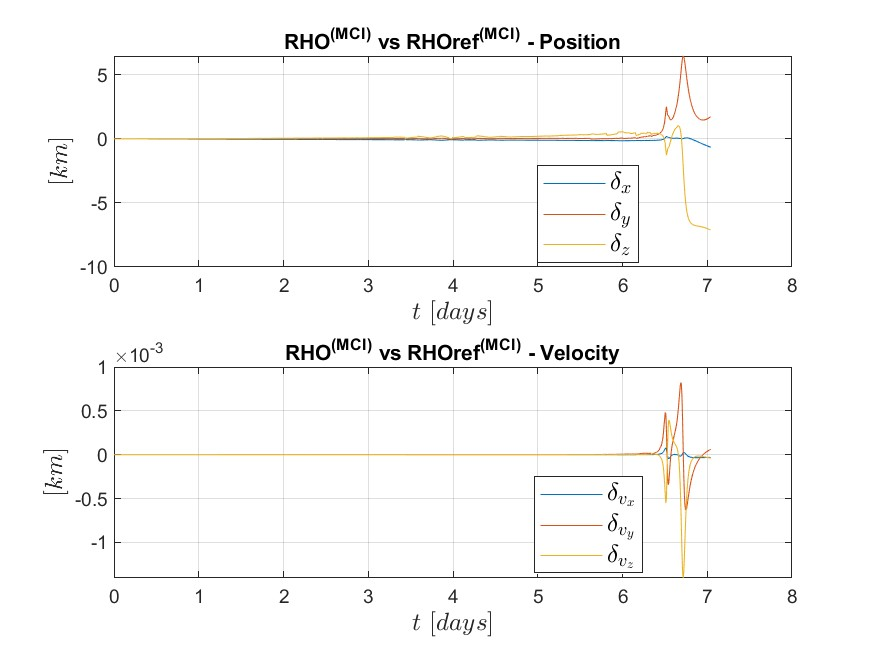
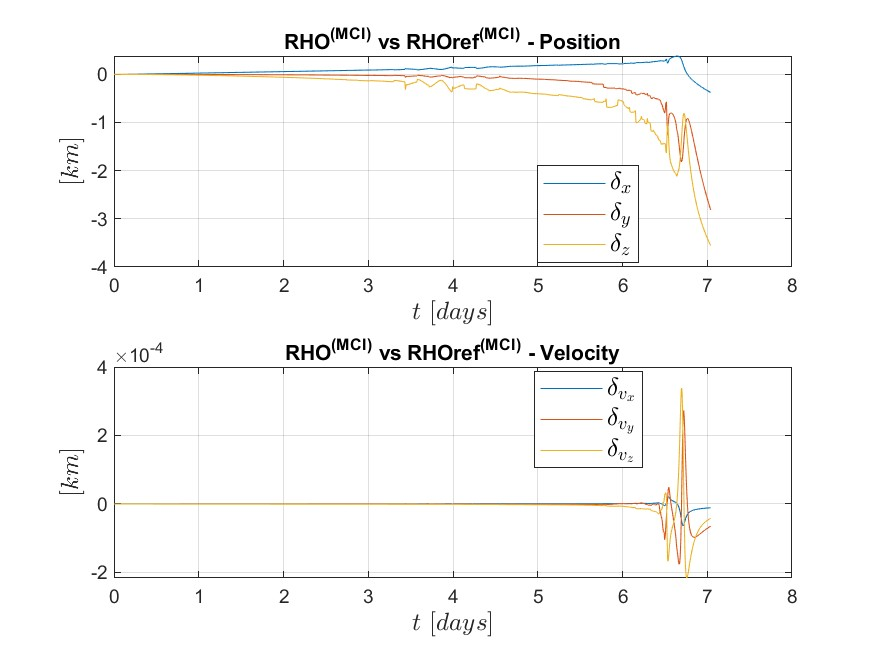
inserted omega into DynamicalModel

diff --git a/Library/DynamicalModelRM.m b/Library/DynamicalModelRM.m
@@ -73,7 +73,7 @@ rc_MCI = Xc_MCI(1:3);
 % Target's Third, Fourth Body and Moon Harmonics Perturbing Accelerations
 a34Bt = ThirdFourthBody(MEEt, t, EarthPPsMCI, SunPPsMCI, muE, muS);
 aG_Mt = MoonHarmPerts(MEEt, MoonPPsECI, t, muM, deltaE, psiM, deltaM);
-apt_LVLH = a34Bt + aG_Mt;
+apt_LVLHt = a34Bt + aG_Mt;
 
 % Chaser's Third, Fourth Body and Moon Harmonics Perturbing Accelerations
 a34Bc = ThirdFourthBody(MEEc, t, EarthPPsMCI, SunPPsMCI, muE, muS);
@@ -86,8 +86,18 @@ apc_LVLHc = a34Bc + aG_Mc;
 
 apc_MCI = R_LVLHc2MCI*apc_LVLHc;
 
-% Compute Angular Velocity of LVLH wrt MCI and its derivative
-omega_LVLH = ppsval(omegaPPsLVLH, t);
+% Compute Angular Velocity of LVLH wrt MCI
+[~, ~, incl, ~, omega, nu] = S2C(COEt');
+[~, ~, incl_dot, Omega_dot, omega_dot, nu_dot] = S2C(get_COEdots(COEt', Xt_MCI', apt_LVLHt));
+
+theta_t = omega + nu;
+theta_t_dot = omega_dot + nu_dot;
+
+omega_LVLH = [Omega_dot*sin(incl)*sin(theta_t) + incl_dot*cos(theta_t); ...
+              Omega_dot*sin(incl)*cos(theta_t) - incl_dot*sin(theta_t); ...
+              Omega_dot*cos(incl) + theta_t_dot];
+
+% Compute Angular Acceleration of LVLH wrt MCI
 omegadot_LVLH = ppsval(omegadotPPsLVLH, t);
 
 % Rotate the Necessary Vectors
@@ -105,10 +115,10 @@ q = (dot(rho_LVLH, rho_LVLH) + 2*dot(rho_LVLH, rt_LVLH))/rt^2;
 
 
 % Assign State Derivatives
-dY(1:6) = G*apt_LVLH;
+dY(1:6) = G*apt_LVLHt;
 dY(6) = dY(6) + sqrt(muM/MEEt(1)^3)*eta^2;
 dY(7:9) = rhodot_LVLH;
-dY(10:12) = -2*cross(omega_LVLH, rhodot_LVLH) - cross(omegadot_LVLH, rho_LVLH) - cross(omega_LVLH, cross(omega_LVLH, rho_LVLH)) + muM/rt^3*((q*(2+q+(1+q)^(1/2)))/((1+q)^(3/2)*((1+q)^(1/2)+1)))*rt_LVLH - muM/rc^3*rho_LVLH + apc_LVLHt - apt_LVLH;
+dY(10:12) = -2*cross(omega_LVLH, rhodot_LVLH) - cross(omegadot_LVLH, rho_LVLH) - cross(omega_LVLH, cross(omega_LVLH, rho_LVLH)) + muM/rt^3*((q*(2+q+(1+q)^(1/2)))/((1+q)^(3/2)*((1+q)^(1/2)+1)))*rt_LVLH - muM/rc^3*rho_LVLH + apc_LVLHt - apt_LVLHt;
 
 % % Write log file
 % upd = dY./Y;

diff --git a/main.m b/main.m
@@ -118,12 +118,15 @@ RHO_MCI = zeros(length(tspan), 6);
 omega_LVLH = zeros(length(tspan), 3);
 omegadot_LVLH = zeros(length(tspan), 3);
 omega_LVLHnorm = zeros(length(tspan), 1);
+dist = zeros(length(tspan), 1);
 
 pbar = waitbar(0, 'Performing the Final Post-Processing');
 for i = 1 : size(RHO_LVLH, 1)
     
     RHO_MCI(i, :) = rhoLVLH2MCI(RHO_LVLH(i, :)', Xt_MCI(i, :)', tspan(i), EarthPPsMCI, SunPPsMCI, MoonPPsECI, muE, muS, deltaE, psiM, deltaM)';
     Xc_MCI(i, :) = Xt_MCI(i, :) + RHO_MCI(i, :);
+
+    dist(i) = norm(RHO_MCI(i, 1:3) - RHOref_MCI(i, 1:3));
 
     % Compute Angular Velocity of LVLH wrt MCI and its derivative
     omega_LVLH(i, :) = ppsval(omegaPPsLVLH, tspan(i))';
@@ -149,8 +152,9 @@ close all
 clc
 
 % Log the Results
+max_distance = max(dist)*DU;
 final_distance = norm(Xc_MCI(end, 1:3) - Xt_MCI(end, 1:3))*DU;
-create_log(log, options, final_distance);
+create_log(log, options, [max_distance, final_distance]);
 
 % Draw the Target, Chaser and Reference Chaser Trajectories in MCI
 figure('name', 'Trajectory in MCI Space')

diff --git a/Library/create_log.m b/Library/create_log.m
@@ -1,9 +1,12 @@
-function create_log(log, options, final_distance)
+function create_log(log, options, data)
 % Description: this function handles the logging of data saving the options
 % that were chosen to obtain the related results.
 
 T_DSG = 6.4;                        % days  
 tf = options.Nperiods * T_DSG;     % days
+
+max_distance = data(1);
+final_distance = data(2);
 
 fprintf(log, "Settings\n" + ...
              "_________________________________________________________\n\n" + ...
@@ -13,6 +16,8 @@ fprintf(log, "Settings\n" + ...
              "AbsTol:\t\t\t%.13f\n\n", ...
              options.Npoints, tf, options.RelTolODE, options.AbsTolODE);
 
+fprintf('The Max Distance between Chaser and Reference Chaser is: %.4f km\n', max_distance);
+fprintf(log, 'The Max Distance between Chaser and Reference Chaser is: %.4f km\n', max_distance);
 fprintf('The Final Distance between Chaser and Target is: %.4f km\n', final_distance);
 fprintf(log, '\nThe Final Distance between Chaser and Target is: %.4f km\n', final_distance);
 
